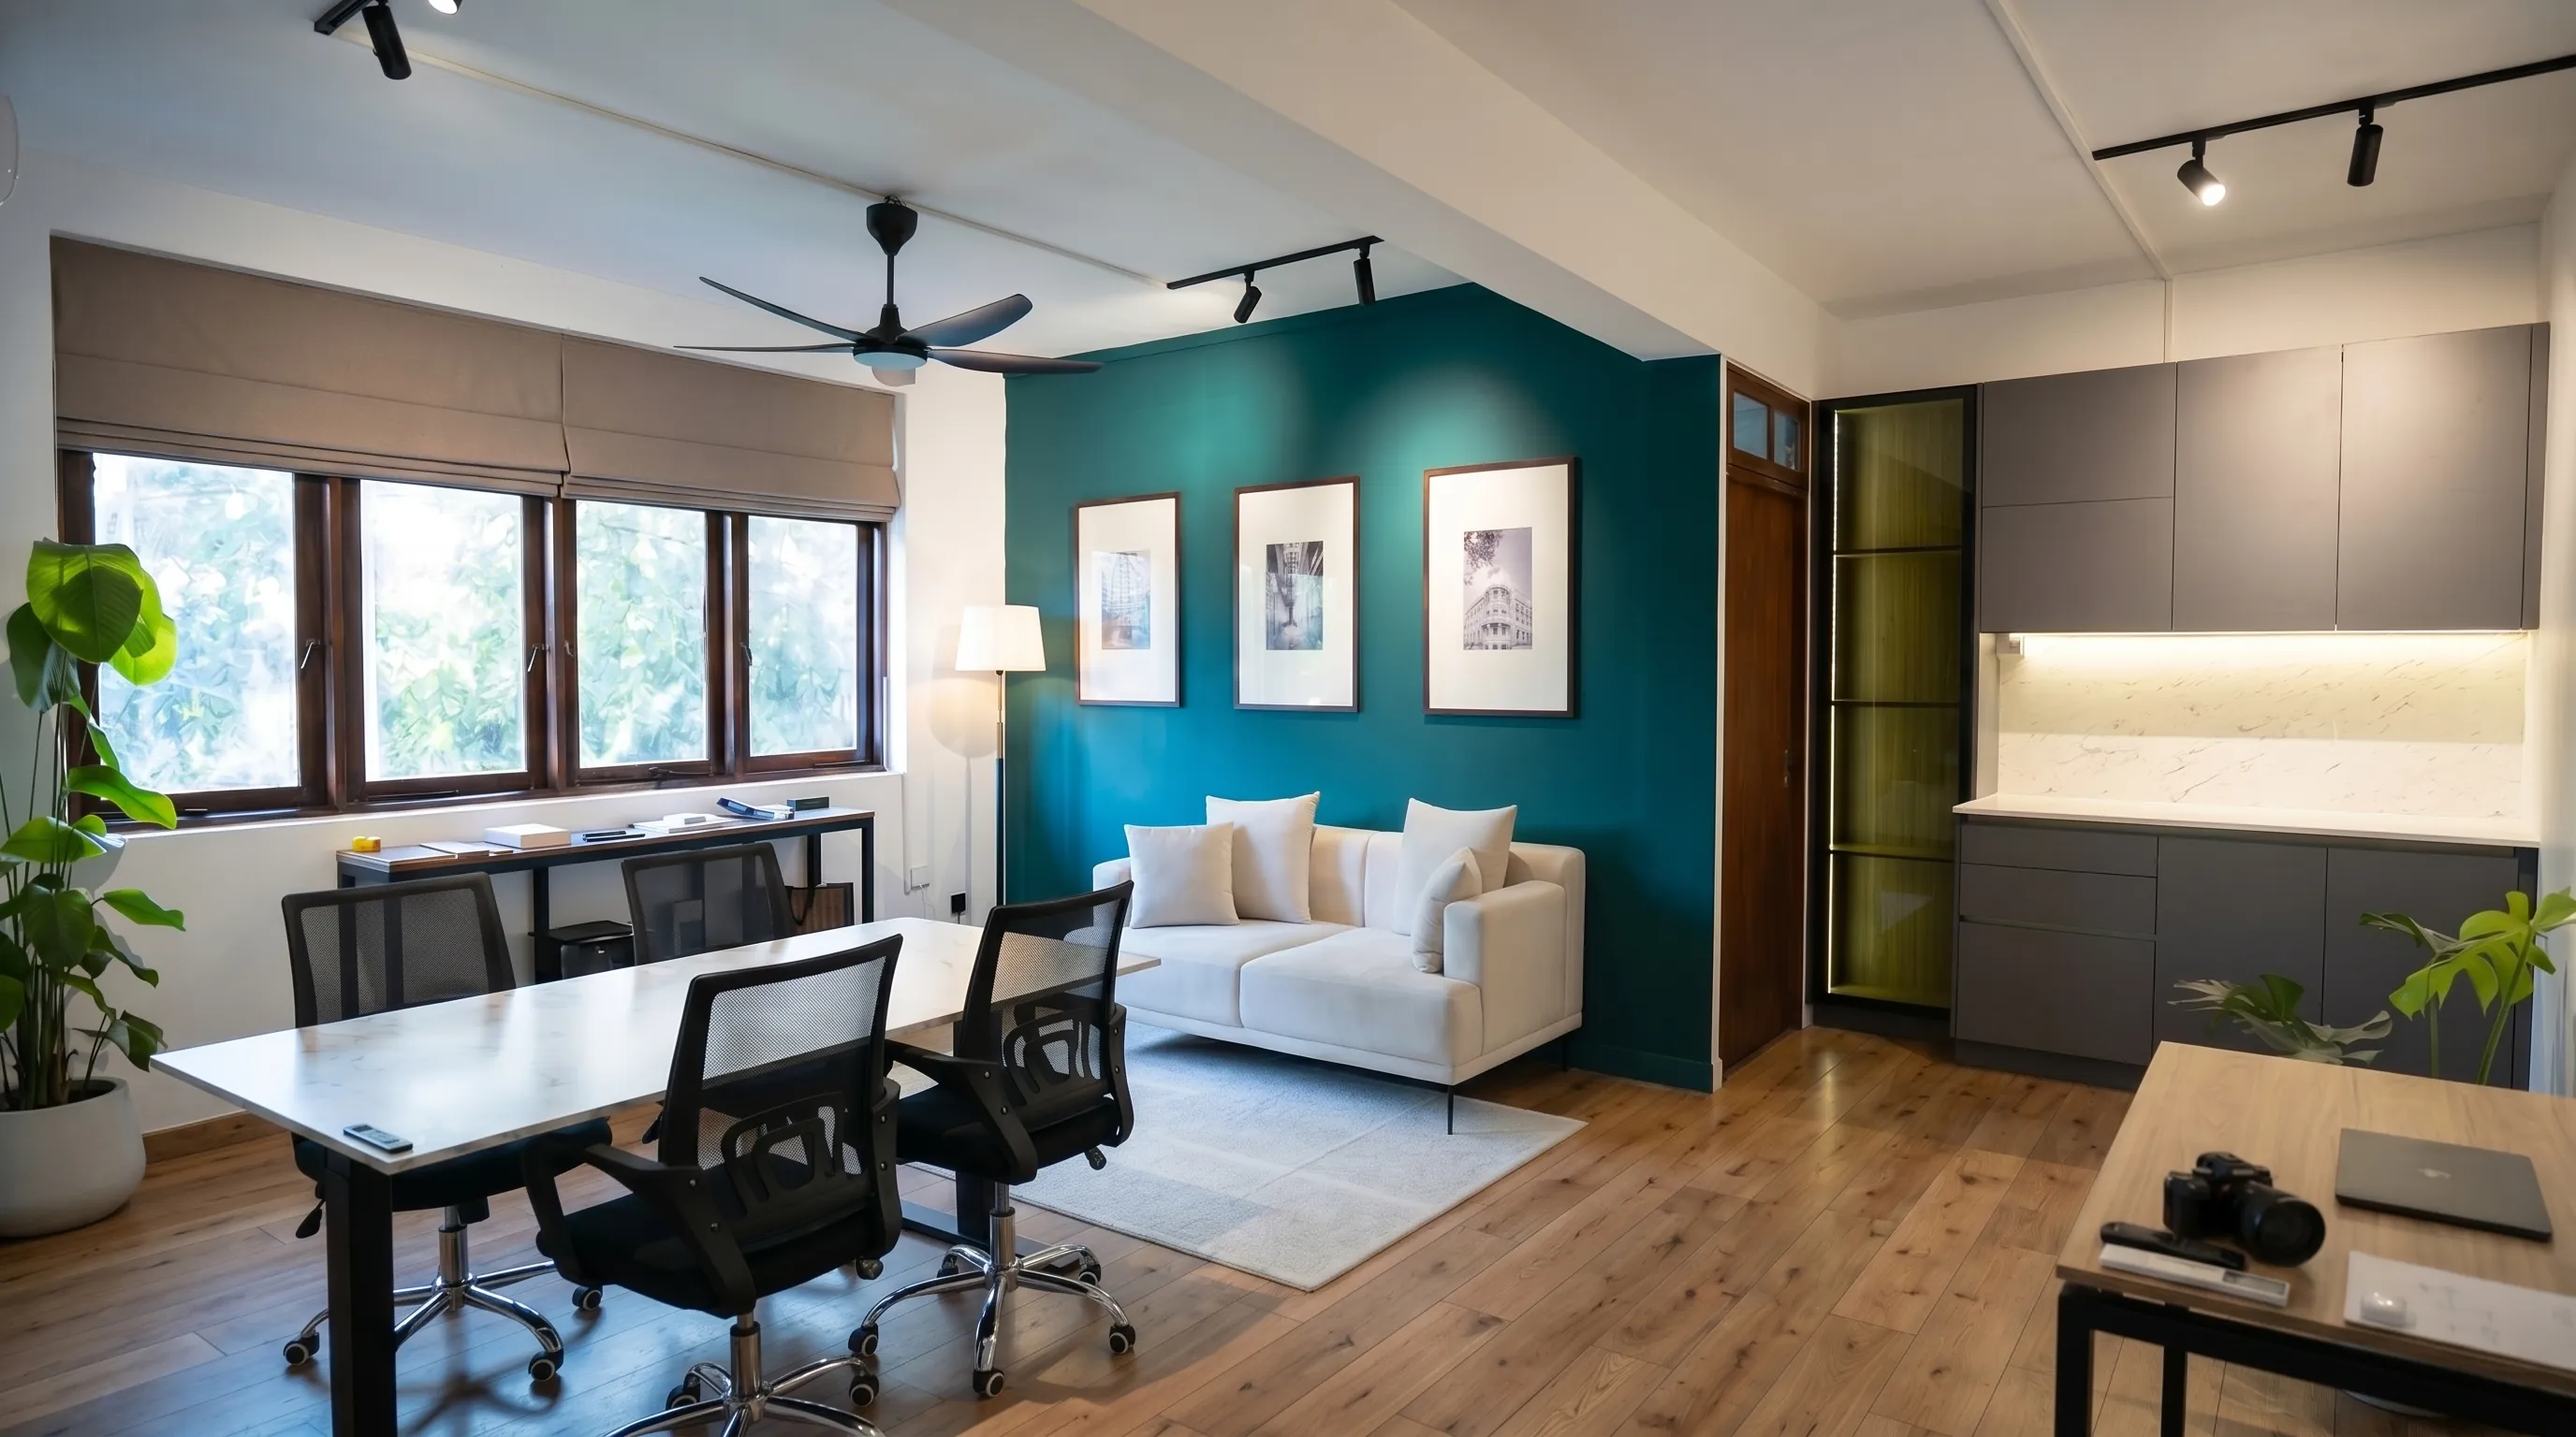
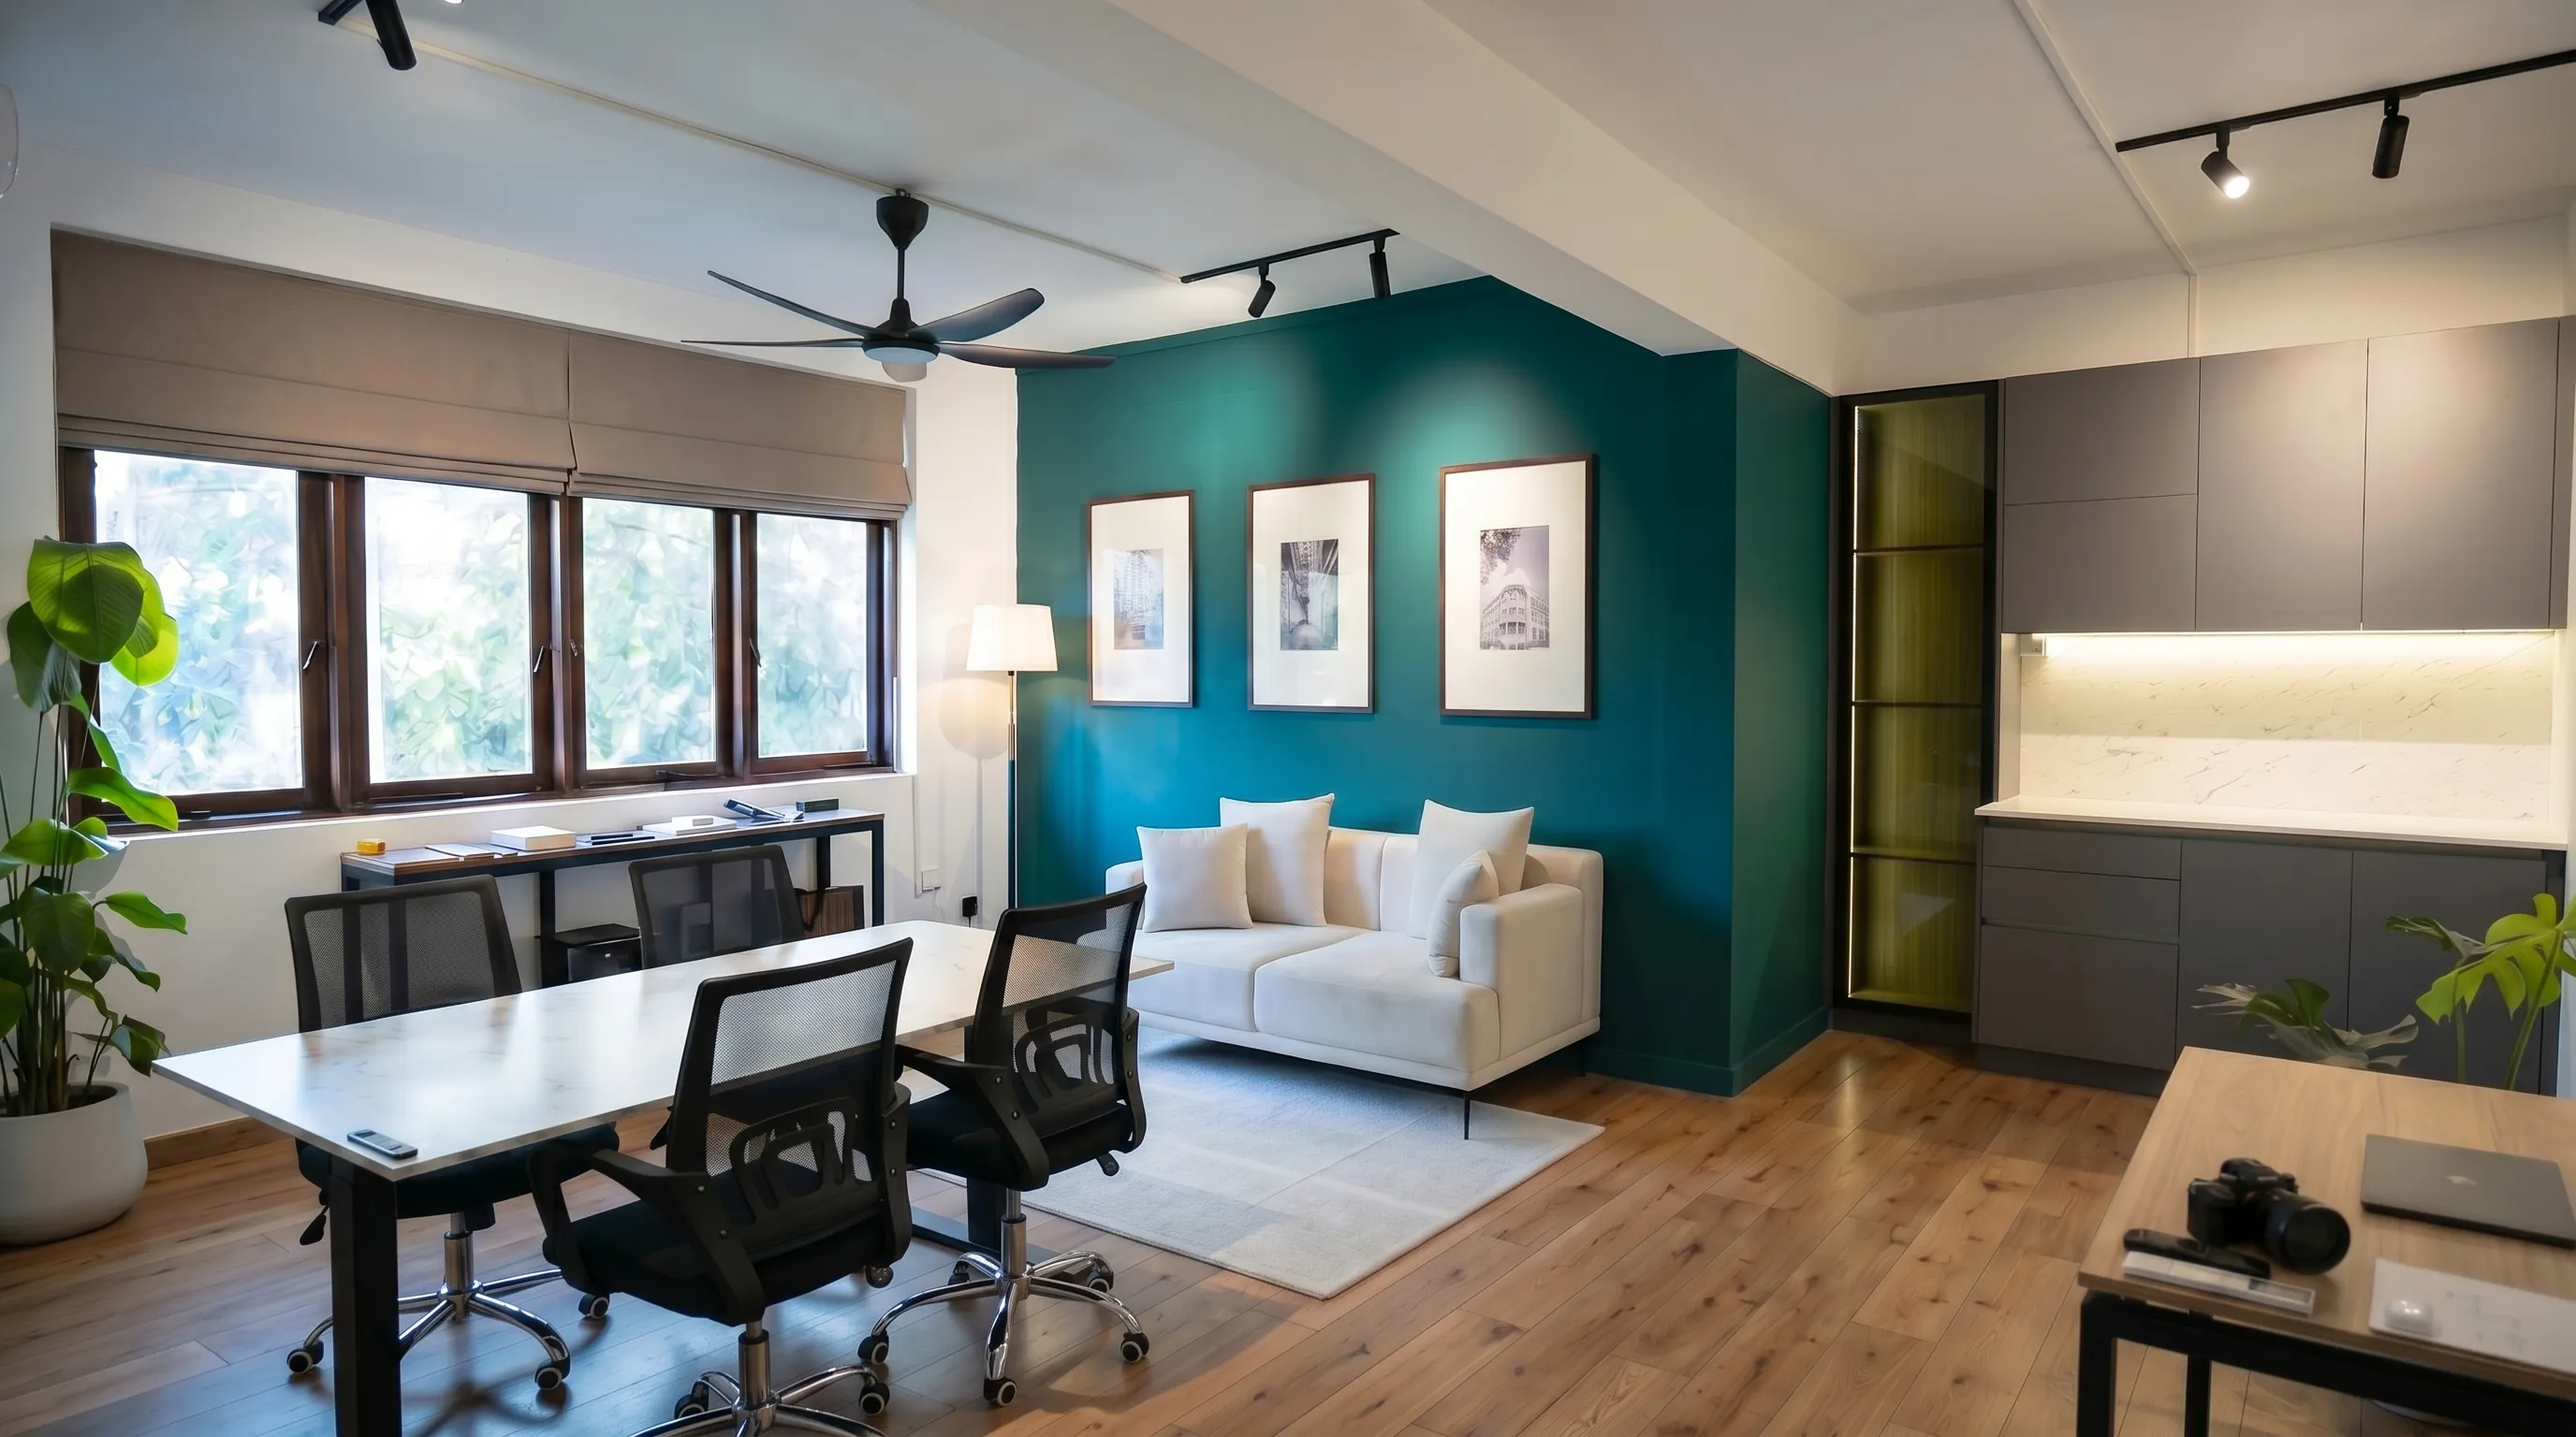
Update hero image to optimized Office 1.2.2; cache-bust hero.webp

diff --git a/Vero Design Studio.html b/Vero Design Studio.html
@@ -10,7 +10,7 @@
 <link rel="apple-touch-icon" href="apple-touch-icon.png">
 <link rel="preload" href="fonts/SimpleSerenitySerif.ttf" as="font" type="font/ttf" crossorigin>
 <link rel="preload" href="fonts/SimpleSerenityScript.ttf" as="font" type="font/ttf" crossorigin>
-<link rel="preload" href="assets/img/hero.webp" as="image" fetchpriority="high">
+<link rel="preload" href="assets/img/hero.webp?v=2" as="image" fetchpriority="high">
 <link rel="stylesheet" href="styles.css?v=3">
 </head>
 <body>
@@ -50,7 +50,7 @@
 <!-- ===================== HERO ===================== -->
 <section class="hero" id="top" data-screen-label="Hero">
   <div class="hero__media">
-    <img fetchpriority="high" src="assets/img/hero.webp" alt="VERO designed commercial office with teal accent wall, lounge seating, meeting table and bespoke joinery" id="heroImg">
+    <img fetchpriority="high" src="assets/img/hero.webp?v=2" alt="VERO designed commercial office with teal accent wall, lounge seating, meeting table and bespoke joinery" id="heroImg">
   </div>
   <div class="hero__overlay"></div>
   <div class="hero__inner">

diff --git a/index.html b/index.html
@@ -10,7 +10,7 @@
 <link rel="apple-touch-icon" href="apple-touch-icon.png">
 <link rel="preload" href="fonts/SimpleSerenitySerif.ttf" as="font" type="font/ttf" crossorigin>
 <link rel="preload" href="fonts/SimpleSerenityScript.ttf" as="font" type="font/ttf" crossorigin>
-<link rel="preload" href="assets/img/hero.webp" as="image" fetchpriority="high">
+<link rel="preload" href="assets/img/hero.webp?v=2" as="image" fetchpriority="high">
 <link rel="stylesheet" href="styles.css?v=3">
 </head>
 <body>
@@ -50,7 +50,7 @@
 <!-- ===================== HERO ===================== -->
 <section class="hero" id="top" data-screen-label="Hero">
   <div class="hero__media">
-    <img fetchpriority="high" src="assets/img/hero.webp" alt="VERO designed commercial office with teal accent wall, lounge seating, meeting table and bespoke joinery" id="heroImg">
+    <img fetchpriority="high" src="assets/img/hero.webp?v=2" alt="VERO designed commercial office with teal accent wall, lounge seating, meeting table and bespoke joinery" id="heroImg">
   </div>
   <div class="hero__overlay"></div>
   <div class="hero__inner">
